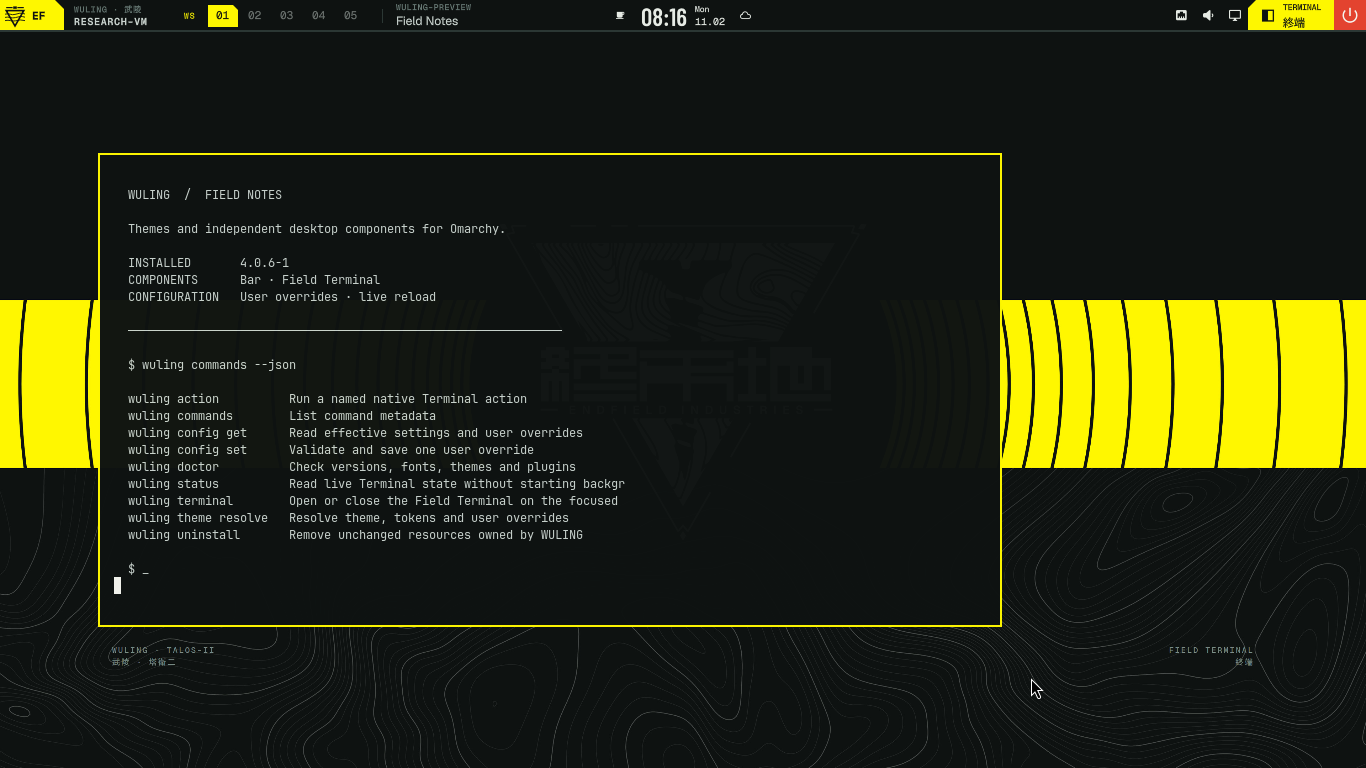
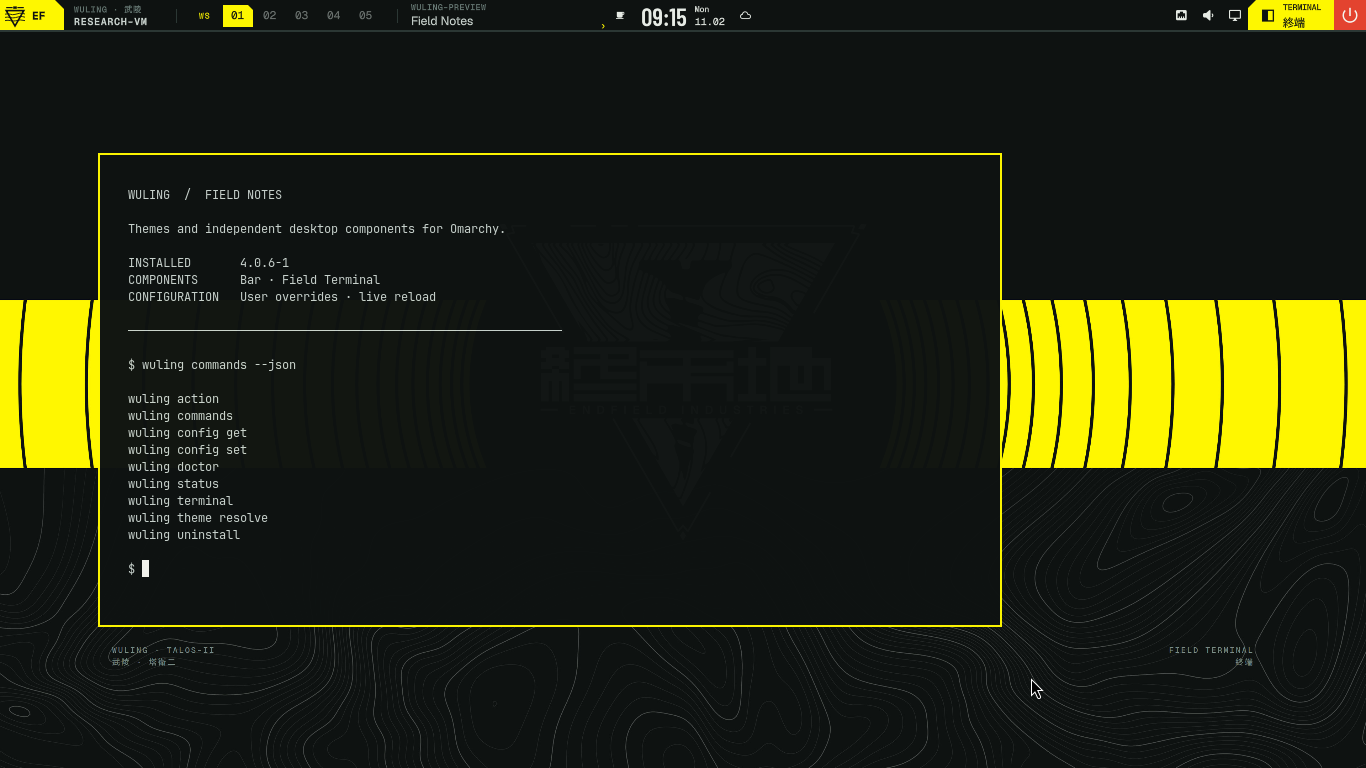
Align Terminal with approved layout and correct capture evidence

diff --git a/plugins/terminal/Terminal.qml b/plugins/terminal/Terminal.qml
@@ -33,6 +33,15 @@ Ui.Panel {
         if (actionProcess.running || !actionQueue.length) return;
         actionProcess.command = actionQueue[0]; actionQueue = actionQueue.slice(1); actionProcess.running = true;
     }
+    function tileValue(tile) {
+        const word = tile.active ? "On" : "Off";
+        if (tile.id === "power") {
+            const value = ({balanced:"Balanced", performance:"Performance", "power-saver":"Saver"})[tile.state] || tile.state;
+            return Kit.Runtime.language === "en" ? value : Kit.Runtime.tr(tile.state) + " " + value;
+        }
+        if (Kit.Runtime.language === "en") return word;
+        return ["dnd", "night"].indexOf(tile.id) >= 0 ? Kit.Runtime.tr(tile.id) + " " + word : word + " " + Kit.Runtime.tr(tile.active ? "on" : "off");
+    }
     function foot(action) { close(); act(action); }
     onOpenedChanged: {
         if (!opened) state = ({});
@@ -122,7 +131,9 @@ Ui.Panel {
                 boundsBehavior: Flickable.StopAtBounds
                 Column {
                     id: contents; width: scroll.width
-                    component Part: Column {
+                    component Part: Item {
+                        default property alias contentData: sectionContent.data
+                        implicitHeight: layout.height + Kit.Runtime.px(10) + 1
                         id: part
                         property string sectionKey: ""
                         property bool revealed: false
@@ -138,30 +149,36 @@ Ui.Panel {
                         Connections { target: terminal; function onOpenedChanged() { part.reveal(); } }
                         Timer { id: entry; interval: Kit.Runtime.reduced ? 0 : 150 + Math.min(12, Math.max(0, terminal.shown.indexOf(part.sectionKey))) * (Kit.Runtime.hud ? 60 : 20); onTriggered: part.revealed = true }
                         Behavior on opacity { NumberAnimation { duration: 90 } }
-                        Item {
-                            width: part.width; height: 0; z: 1
-                            Rectangle { visible: part.sectionKey !== "comms"; width: parent.width; height: 1; y: part.height - 1; color: Kit.Runtime.c("line") }
-                            Rectangle {
-                                visible: Kit.Runtime.hud && !Kit.Runtime.reduced && sweep.running
-                                width: parent.width; height: 1; color: Kit.Runtime.c("accent-ink")
-                                property real progress: 0
-                                y: progress * part.height
-                                NumberAnimation on progress { id: sweep; from: 0; to: 1; duration: 160; running: part.revealed && terminal.opened }
-                            }
+                        property Column layout: Column {
+                            parent: part; width: part.width
+                            Kit.Section { width: parent.width; number: terminal.number(part.sectionKey); title: Kit.Runtime.label(part.sectionKey); detail: part.sectionKey === "clock" ? Quickshell.env("USER") : "" }
+                            Column { id: sectionContent; width: parent.width; topPadding: Kit.Runtime.px(8) }
                         }
-                        Kit.Section { width: parent.width; number: terminal.number(parent.sectionKey); title: Kit.Runtime.label(parent.sectionKey) }
+                        property Rectangle divider: Rectangle {
+                            parent: part; anchors.bottom: parent.bottom; width: parent.width; height: 1
+                            visible: terminal.shown[terminal.shown.length - 1] !== part.sectionKey
+                            color: Kit.Runtime.c("line")
+                        }
+                        property Rectangle scan: Rectangle {
+                            parent: part
+                            visible: Kit.Runtime.hud && !Kit.Runtime.reduced && sweep.running
+                            width: parent.width; height: 1; color: Kit.Runtime.c("accent-ink")
+                            property real progress: 0
+                            y: progress * part.height
+                            NumberAnimation on progress { id: sweep; from: 0; to: 1; duration: 160; running: part.revealed && terminal.opened }
+                        }
                     }
                     Part {
                         sectionKey: "clock"
                         Item {
-                            width: parent.width; height: Kit.Runtime.g("terminal_clock_size") + Kit.Runtime.px(8)
-                            Kit.Label { id: hours; x: Kit.Runtime.px(14); anchors.bottom: parent.bottom; anchors.bottomMargin: Kit.Runtime.px(6); text: terminal.state.clock ? terminal.state.clock.time.slice(0, 5) : "—:—"; font.family: Kit.Runtime.display; font.weight: Font.DemiBold; font.pixelSize: Kit.Runtime.g("terminal_clock_size"); color: Kit.Runtime.c("paper-1") }
-                            Kit.Label { x: hours.x + hours.width + Kit.Runtime.px(5); anchors.bottom: hours.bottom; anchors.bottomMargin: Kit.Runtime.px(4); text: terminal.state.clock ? terminal.state.clock.time.slice(5) : ""; font.family: Kit.Runtime.display; font.pixelSize: Kit.Runtime.px(18); color: Kit.Runtime.c("accent-ink") }
+                            width: parent.width; height: Kit.Runtime.g("terminal_clock_size") * .9 + Kit.Runtime.px(2)
+                            Kit.Label { id: hours; x: Kit.Runtime.px(14); anchors.bottom: parent.bottom; anchors.bottomMargin: Kit.Runtime.px(2); height: Kit.Runtime.g("terminal_clock_size") * .9; text: terminal.state.clock ? terminal.state.clock.time.slice(0, 5) : "—:—"; font.family: Kit.Runtime.display; font.weight: Font.DemiBold; font.pixelSize: Kit.Runtime.g("terminal_clock_size"); color: Kit.Runtime.c("paper-1") }
+                            Kit.Label { x: hours.x + hours.width + Kit.Runtime.px(5); anchors.bottom: hours.bottom; anchors.bottomMargin: Kit.Runtime.px(4); text: terminal.state.clock ? terminal.state.clock.time.slice(5) : ""; font.family: Kit.Runtime.display; font.pixelSize: Kit.Runtime.px(18); font.weight: Font.DemiBold; height: Kit.Runtime.px(18); color: Kit.Runtime.c("accent-ink") }
                             Column {
-                                anchors.right: parent.right; anchors.rightMargin: Kit.Runtime.px(14); anchors.bottom: parent.bottom; anchors.bottomMargin: Kit.Runtime.px(10); spacing: Kit.Runtime.px(4)
-                                Kit.Label { anchors.right: parent.right; text: terminal.state.clock ? terminal.state.clock.date : ""; font.pixelSize: Kit.Runtime.px(12) }
-                                Kit.Label { anchors.right: parent.right; text: terminal.state.clock ? terminal.state.clock.zone : ""; font.pixelSize: Kit.Runtime.px(9); color: Kit.Runtime.c("mist-4") }
-                                Kit.Label { anchors.right: parent.right; text: { const n = terminal.state.clock ? terminal.state.clock.uptime_seconds : 0; return Kit.Runtime.tr("uptime") + " " + Math.floor(n / 3600) + "h " + Math.floor(n / 60) % 60 + "m"; } font.pixelSize: Kit.Runtime.px(8); color: Kit.Runtime.c("mist-5") }
+                                anchors.right: parent.right; anchors.rightMargin: Kit.Runtime.px(14); anchors.bottom: parent.bottom; anchors.bottomMargin: Kit.Runtime.px(2); spacing: Kit.Runtime.px(4)
+                                Kit.Micro { anchors.right: parent.right; text: { const c = terminal.state.clock; if (!c) return ""; const day = ["MON", "TUE", "WED", "THU", "FRI", "SAT", "SUN"][c.weekday - 1]; return c.date.slice(0, 4) + " · " + day + (Kit.Runtime.language === "en" ? "" : " " + Kit.Runtime.tr("weekday-" + c.weekday)); } }
+                                Kit.Label { anchors.right: parent.right; height: Kit.Runtime.px(14.4); text: terminal.state.clock ? terminal.state.clock.date.slice(5).replace("-", ".") + " · " + terminal.state.clock.zone : ""; font.pixelSize: Kit.Runtime.px(12); font.weight: Font.DemiBold; font.letterSpacing: Kit.Runtime.px(.72); color: Kit.Runtime.c("paper-1") }
+                                Kit.Micro { anchors.right: parent.right; text: { const n = terminal.state.clock ? terminal.state.clock.uptime_seconds : 0; return "UPTIME " + Math.floor(n / 3600) + "H " + Math.floor(n / 60) % 60 + "M"; } }
                             }
                         }
                     }
@@ -179,18 +196,16 @@ Ui.Panel {
                                     onClicked: terminal.act(modelData.action)
                                     onRightClicked: terminal.act("panel", modelData.id)
                                     Kit.Icon { x: Kit.Runtime.px(8); y: Kit.Runtime.px(7); name: ({wifi:"wifi",bluetooth:"bluetooth",tailscale:"hub",dnd:"do_not_disturb_on",night:"bedtime",power:"speed"})[parent.modelData.id]; color: parent.foreground; font.pixelSize: Kit.Runtime.px(15) }
-                                    Kit.Label { anchors.right: parent.right; anchors.rightMargin: Kit.Runtime.px(7); y: Kit.Runtime.px(7); text: Kit.Runtime.tr(parent.modelData.id); color: parent.foreground; font.pixelSize: Kit.Runtime.px(8) }
-                                    Kit.Label { x: Kit.Runtime.px(8); y: Kit.Runtime.px(31); width: parent.width - Kit.Runtime.px(16); text: parent.modelData.id === "power" ? Kit.Runtime.tr(parent.modelData.state) : Kit.Runtime.tr(parent.modelData.active ? "on" : "off"); color: parent.foreground; font.family: Kit.Runtime.sans }
+                                    Kit.Micro { anchors.right: parent.right; anchors.rightMargin: Kit.Runtime.px(8); y: Kit.Runtime.px(10); text: ({wifi:"WI-FI", bluetooth:"BT", tailscale:"TAILNET", dnd:"DND", night:"NIGHT", power:"POWER"})[parent.modelData.id]; color: parent.foreground; pixels: 7.5 }
+                                    Kit.Label { x: Kit.Runtime.px(8); y: Kit.Runtime.px(31); width: parent.width - Kit.Runtime.px(16); text: terminal.tileValue(parent.modelData); color: parent.foreground; font.family: Kit.Runtime.sans }
                                 }
                             }
                         }
-                        Item { width: 1; height: Kit.Runtime.px(10) }
                     }
                     Part {
                         sectionKey: "levels"
                         Kit.Level { x: Kit.Runtime.px(14); width: parent.width - Kit.Runtime.px(28); visible: !!terminal.state.levels && !!terminal.state.levels.volume; name: Kit.Runtime.tr("volume"); icon: terminal.state.levels && terminal.state.levels.volume && terminal.state.levels.volume.muted ? "volume_off" : "volume_up"; value: terminal.state.levels && terminal.state.levels.volume ? terminal.state.levels.volume.percent : 0; onAdjusted: percent => terminal.act("volume", Math.round(percent)) }
                         Kit.Level { x: Kit.Runtime.px(14); width: parent.width - Kit.Runtime.px(28); visible: !!terminal.state.levels && terminal.state.levels.brightness !== null; name: Kit.Runtime.tr("brightness"); icon: "brightness_6"; fill: Kit.Runtime.c("paper-2"); value: terminal.state.levels && terminal.state.levels.brightness !== null ? terminal.state.levels.brightness : 0; onAdjusted: percent => terminal.act("brightness", Math.round(percent)) }
-                        Item { width: 1; height: Kit.Runtime.px(8) }
                     }
                     Part {
                         sectionKey: "signal"
@@ -242,7 +257,6 @@ Ui.Panel {
                             }
                         }
                         Kit.Button { x: Kit.Runtime.px(14); width: parent.width - Kit.Runtime.px(28); height: Kit.Runtime.px(26); text: Kit.Runtime.tr("ask-agent"); icon: "smart_toy"; onClicked: terminal.act("agent") }
-                        Item { width: 1; height: Kit.Runtime.px(8) }
                     }
                     Part {
                         sectionKey: "telemetry"
@@ -253,13 +267,16 @@ Ui.Panel {
                                 Column {
                                     required property string modelData
                                     width: (contents.width - Kit.Runtime.px(48)) / 3; spacing: Kit.Runtime.px(4)
-                                    Kit.Label { text: Kit.Runtime.tr(modelData).toUpperCase(); font.pixelSize: Kit.Runtime.px(8); color: Kit.Runtime.c("mist-5") }
-                                    Kit.Label { font.family: Kit.Runtime.display; font.pixelSize: Kit.Runtime.px(16); font.weight: Font.DemiBold; text: { const t = terminal.state.telemetry; if (!t) return "—"; const value = modelData === "cpu" ? t.cpu_percent : modelData === "memory" ? t.memory_used / 1073741824 : t.temperature_c; return value === null ? "—" : value.toFixed(modelData === "memory" ? 1 : 0) + (modelData === "cpu" ? "%" : modelData === "memory" ? " / " + (t.memory_total / 1073741824).toFixed(1) + "G" : "°"); } }
-                                    Kit.Spark { width: parent.width; height: Kit.Runtime.px(16); samples: terminal.state.telemetry ? terminal.state.telemetry.history[modelData] : []; ink: Kit.Runtime.c(modelData === "cpu" ? "accent-ink" : modelData === "memory" ? "paper-2" : "jade") }
+                                    Kit.Micro { text: ({cpu:"CPU", memory:"MEM", temperature:"TEMP"})[modelData] + (Kit.Runtime.language === "en" ? "" : " " + Kit.Runtime.tr(modelData)) }
+                                    Row {
+                                        height: Kit.Runtime.px(16); spacing: Kit.Runtime.px(3)
+                                        Kit.Label { height: parent.height; font.family: Kit.Runtime.display; font.pixelSize: Kit.Runtime.px(16); font.weight: Font.DemiBold; color: Kit.Runtime.c("paper-1"); text: { const t = terminal.state.telemetry; if (!t) return "—"; const value = modelData === "cpu" ? t.cpu_percent : modelData === "memory" ? t.memory_used / 1073741824 : t.temperature_c; return value === null ? "—" : value.toFixed(modelData === "memory" ? 1 : 0) + (modelData === "cpu" ? "%" : modelData === "memory" ? "" : "°"); } }
+                                        Kit.Label { visible: modelData === "memory" && !!terminal.state.telemetry; anchors.bottom: parent.bottom; height: Kit.Runtime.px(9); font.pixelSize: Kit.Runtime.px(9); font.weight: Font.Medium; color: Kit.Runtime.c("mist-4"); text: terminal.state.telemetry ? "/ " + (terminal.state.telemetry.memory_total / 1073741824).toFixed(1) + "G" : "" }
+                                    }
+                                    Kit.Spark { width: Math.min(parent.width, Kit.Runtime.px(96)); height: Kit.Runtime.px(16); samples: terminal.state.telemetry ? terminal.state.telemetry.history[modelData] : []; ink: Kit.Runtime.c(modelData === "cpu" ? "accent-ink" : modelData === "memory" ? "paper-2" : "jade") }
                                 }
                             }
                         }
-                        Item { width: 1; height: Kit.Runtime.px(10) }
                     }
                     Part {
                         sectionKey: "comms"
@@ -271,7 +288,7 @@ Ui.Panel {
             Row {
                 id: foot; anchors.bottom: parent.bottom; anchors.bottomMargin: Kit.Runtime.px(12); x: Kit.Runtime.px(22); spacing: Kit.Runtime.px(6)
                 Repeater {
-                    model: [{key:"lock",icon:"lock",action:"lock"},{key:"sleep",icon:"bedtime",action:"sleep"},{key:"exit",icon:"logout",action:"power-menu"},{key:"reboot",icon:"restart_alt",action:"power-menu"},{key:"off",icon:"power_settings_new",action:"power-menu"}]
+                    model: [{key:"lock",icon:"lock",action:"lock"},{key:"sleep",icon:"bedtime",action:"sleep"},{key:"exit",icon:"logout",action:"power-menu"},{key:"reboot",icon:"restart_alt",action:"power-menu"},{key:"shutdown",icon:"power_settings_new",action:"power-menu"}]
                     Kit.Button {
                         required property var modelData
                         width: (body.width - Kit.Runtime.px(60)) / 5; height: Kit.Runtime.px(40)
@@ -279,7 +296,7 @@ Ui.Panel {
                         Accessible.name: Kit.Runtime.tr(modelData.key)
                         onClicked: terminal.foot(modelData.action)
                         Kit.Icon { anchors.horizontalCenter: parent.horizontalCenter; y: Kit.Runtime.px(6); name: parent.modelData.icon; font.pixelSize: Kit.Runtime.px(15); color: parent.foreground }
-                        Kit.Label { anchors.horizontalCenter: parent.horizontalCenter; y: Kit.Runtime.px(25); text: Kit.Runtime.tr(parent.modelData.key).toUpperCase(); font.pixelSize: Kit.Runtime.px(8); color: parent.foreground }
+                        Kit.Micro { anchors.horizontalCenter: parent.horizontalCenter; y: Kit.Runtime.px(25); text: parent.modelData.key === "shutdown" ? "OFF" : parent.modelData.key.toUpperCase(); pixels: 7.5; color: parent.foreground }
                     }
                 }
             }

diff --git a/kit/Section.qml b/kit/Section.qml
@@ -4,10 +4,10 @@ Item {
     property string number: ""
     property string title: ""
     property string detail: ""
-    implicitHeight: Runtime.px(27)
+    implicitHeight: Runtime.px(Runtime.hud ? 23 : 19)
     Rectangle { visible: Runtime.hud; x: Runtime.px(14); y: Runtime.px(8); width: Runtime.px(23); height: Runtime.px(15); color: Runtime.c("fill") }
-    Label { x: Runtime.px(Runtime.hud ? 18 : 14); y: Runtime.px(9); text: section.number; color: Runtime.c(Runtime.hud ? "on-accent" : "accent-ink"); font.pixelSize: Runtime.px(9); font.weight: Font.DemiBold }
-    Label { id: title; x: Runtime.px(Runtime.hud ? 45 : 36); y: Runtime.px(9); text: section.title.toUpperCase(); font.pixelSize: Runtime.px(9); font.letterSpacing: Runtime.px(1) }
-    Rectangle { x: title.x + title.width + Runtime.px(8); y: Runtime.px(15); width: Math.max(0, parent.width - x - detail.width - Runtime.px(22)); height: 1; color: Runtime.c("line-soft") }
-    Label { id: detail; anchors.right: parent.right; anchors.rightMargin: Runtime.px(14); y: Runtime.px(9); text: section.detail; color: Runtime.c("mist-5"); font.pixelSize: Runtime.px(8) }
+    Label { x: Runtime.px(Runtime.hud ? 18 : 14); y: Runtime.px(Runtime.hud ? 11 : 10); height: Runtime.px(9); text: section.number; color: Runtime.c(Runtime.hud ? "on-accent" : "accent-ink"); font.pixelSize: Runtime.px(9); font.weight: Font.DemiBold }
+    Label { id: title; x: Runtime.px(Runtime.hud ? 45 : 36); y: Runtime.px(Runtime.hud ? 11 : 10); height: Runtime.px(9); text: section.title.toUpperCase(); font.pixelSize: Runtime.px(9); font.weight: Font.Medium; font.letterSpacing: Runtime.px(1.26) }
+    Rectangle { x: title.x + title.width + Runtime.px(8); y: title.y + title.height / 2; width: Math.max(0, parent.width - x - detail.width - Runtime.px(22)); height: 1; color: Runtime.c("line-soft") }
+    Label { id: detail; anchors.right: parent.right; anchors.rightMargin: Runtime.px(14); y: title.y; height: title.height; text: section.detail.toUpperCase(); color: Runtime.c("mist-5"); font.pixelSize: Runtime.px(8); font.weight: Font.Medium; font.letterSpacing: Runtime.px(1.12) }
 }

diff --git a/plugins/bar/kit/Section.qml b/plugins/bar/kit/Section.qml
@@ -4,10 +4,10 @@ Item {
     property string number: ""
     property string title: ""
     property string detail: ""
-    implicitHeight: Runtime.px(27)
+    implicitHeight: Runtime.px(Runtime.hud ? 23 : 19)
     Rectangle { visible: Runtime.hud; x: Runtime.px(14); y: Runtime.px(8); width: Runtime.px(23); height: Runtime.px(15); color: Runtime.c("fill") }
-    Label { x: Runtime.px(Runtime.hud ? 18 : 14); y: Runtime.px(9); text: section.number; color: Runtime.c(Runtime.hud ? "on-accent" : "accent-ink"); font.pixelSize: Runtime.px(9); font.weight: Font.DemiBold }
-    Label { id: title; x: Runtime.px(Runtime.hud ? 45 : 36); y: Runtime.px(9); text: section.title.toUpperCase(); font.pixelSize: Runtime.px(9); font.letterSpacing: Runtime.px(1) }
-    Rectangle { x: title.x + title.width + Runtime.px(8); y: Runtime.px(15); width: Math.max(0, parent.width - x - detail.width - Runtime.px(22)); height: 1; color: Runtime.c("line-soft") }
-    Label { id: detail; anchors.right: parent.right; anchors.rightMargin: Runtime.px(14); y: Runtime.px(9); text: section.detail; color: Runtime.c("mist-5"); font.pixelSize: Runtime.px(8) }
+    Label { x: Runtime.px(Runtime.hud ? 18 : 14); y: Runtime.px(Runtime.hud ? 11 : 10); height: Runtime.px(9); text: section.number; color: Runtime.c(Runtime.hud ? "on-accent" : "accent-ink"); font.pixelSize: Runtime.px(9); font.weight: Font.DemiBold }
+    Label { id: title; x: Runtime.px(Runtime.hud ? 45 : 36); y: Runtime.px(Runtime.hud ? 11 : 10); height: Runtime.px(9); text: section.title.toUpperCase(); font.pixelSize: Runtime.px(9); font.weight: Font.Medium; font.letterSpacing: Runtime.px(1.26) }
+    Rectangle { x: title.x + title.width + Runtime.px(8); y: title.y + title.height / 2; width: Math.max(0, parent.width - x - detail.width - Runtime.px(22)); height: 1; color: Runtime.c("line-soft") }
+    Label { id: detail; anchors.right: parent.right; anchors.rightMargin: Runtime.px(14); y: title.y; height: title.height; text: section.detail.toUpperCase(); color: Runtime.c("mist-5"); font.pixelSize: Runtime.px(8); font.weight: Font.Medium; font.letterSpacing: Runtime.px(1.12) }
 }

diff --git a/plugins/terminal/kit/Section.qml b/plugins/terminal/kit/Section.qml
@@ -4,10 +4,10 @@ Item {
     property string number: ""
     property string title: ""
     property string detail: ""
-    implicitHeight: Runtime.px(27)
+    implicitHeight: Runtime.px(Runtime.hud ? 23 : 19)
     Rectangle { visible: Runtime.hud; x: Runtime.px(14); y: Runtime.px(8); width: Runtime.px(23); height: Runtime.px(15); color: Runtime.c("fill") }
-    Label { x: Runtime.px(Runtime.hud ? 18 : 14); y: Runtime.px(9); text: section.number; color: Runtime.c(Runtime.hud ? "on-accent" : "accent-ink"); font.pixelSize: Runtime.px(9); font.weight: Font.DemiBold }
-    Label { id: title; x: Runtime.px(Runtime.hud ? 45 : 36); y: Runtime.px(9); text: section.title.toUpperCase(); font.pixelSize: Runtime.px(9); font.letterSpacing: Runtime.px(1) }
-    Rectangle { x: title.x + title.width + Runtime.px(8); y: Runtime.px(15); width: Math.max(0, parent.width - x - detail.width - Runtime.px(22)); height: 1; color: Runtime.c("line-soft") }
-    Label { id: detail; anchors.right: parent.right; anchors.rightMargin: Runtime.px(14); y: Runtime.px(9); text: section.detail; color: Runtime.c("mist-5"); font.pixelSize: Runtime.px(8) }
+    Label { x: Runtime.px(Runtime.hud ? 18 : 14); y: Runtime.px(Runtime.hud ? 11 : 10); height: Runtime.px(9); text: section.number; color: Runtime.c(Runtime.hud ? "on-accent" : "accent-ink"); font.pixelSize: Runtime.px(9); font.weight: Font.DemiBold }
+    Label { id: title; x: Runtime.px(Runtime.hud ? 45 : 36); y: Runtime.px(Runtime.hud ? 11 : 10); height: Runtime.px(9); text: section.title.toUpperCase(); font.pixelSize: Runtime.px(9); font.weight: Font.Medium; font.letterSpacing: Runtime.px(1.26) }
+    Rectangle { x: title.x + title.width + Runtime.px(8); y: title.y + title.height / 2; width: Math.max(0, parent.width - x - detail.width - Runtime.px(22)); height: 1; color: Runtime.c("line-soft") }
+    Label { id: detail; anchors.right: parent.right; anchors.rightMargin: Runtime.px(14); y: title.y; height: title.height; text: section.detail.toUpperCase(); color: Runtime.c("mist-5"); font.pixelSize: Runtime.px(8); font.weight: Font.Medium; font.letterSpacing: Runtime.px(1.12) }
 }

diff --git a/plugins/bar/Identity.qml b/plugins/bar/Identity.qml
@@ -7,11 +7,12 @@ Item {
     property string moduleName: "wuling.identity"
     readonly property var window: QsWindow.window
     visible: !!bar && !bar.vertical && !!window && window.screen.width >= Kit.Runtime.px(1280)
-    implicitWidth: visible ? Kit.Runtime.px(110) : 0
+    implicitWidth: visible ? Kit.Runtime.px(125) : 0
     implicitHeight: bar ? bar.barSize : Kit.Runtime.px(30)
+    Rectangle { anchors.right: parent.right; anchors.rightMargin: Kit.Runtime.px(12); anchors.verticalCenter: parent.verticalCenter; width: 1; height: Kit.Runtime.px(14); color: Kit.Runtime.c("line") }
     Column {
         x: Kit.Runtime.px(10); anchors.verticalCenter: parent.verticalCenter
         Kit.Label { visible: Kit.Runtime.setting("labels"); text: "WULING · 武陵"; font.pixelSize: Kit.Runtime.px(8); color: Kit.Runtime.c("mist-5"); font.letterSpacing: Kit.Runtime.px(.8) }
-        Kit.Label { width: Kit.Runtime.px(95); text: parent.parent.bar ? parent.parent.bar.hostname : ""; font.pixelSize: Kit.Runtime.px(10); font.weight: Font.DemiBold; font.letterSpacing: Kit.Runtime.px(.7) }
+        Kit.Label { width: Kit.Runtime.px(90); text: parent.parent.bar ? parent.parent.bar.hostname : ""; font.pixelSize: Kit.Runtime.px(10); font.weight: Font.DemiBold; font.letterSpacing: Kit.Runtime.px(.7) }
     }
 }

diff --git a/kit/Micro.qml b/kit/Micro.qml
@@ -1,0 +1,9 @@
+import QtQuick
+Label {
+    property real pixels: 8
+    font.pixelSize: Runtime.px(pixels)
+    font.weight: Font.Medium
+    font.letterSpacing: Runtime.px(pixels * .14)
+    height: Runtime.px(pixels)
+    color: Runtime.c("mist-5")
+}

diff --git a/plugins/bar/kit/Micro.qml b/plugins/bar/kit/Micro.qml
@@ -1,0 +1,9 @@
+import QtQuick
+Label {
+    property real pixels: 8
+    font.pixelSize: Runtime.px(pixels)
+    font.weight: Font.Medium
+    font.letterSpacing: Runtime.px(pixels * .14)
+    height: Runtime.px(pixels)
+    color: Runtime.c("mist-5")
+}

diff --git a/plugins/terminal/kit/Micro.qml b/plugins/terminal/kit/Micro.qml
@@ -1,0 +1,9 @@
+import QtQuick
+Label {
+    property real pixels: 8
+    font.pixelSize: Runtime.px(pixels)
+    font.weight: Font.Medium
+    font.letterSpacing: Runtime.px(pixels * .14)
+    height: Runtime.px(pixels)
+    color: Runtime.c("mist-5")
+}

diff --git a/research/phase-c.md b/research/phase-c.md
@@ -94,17 +94,24 @@ unrelated files were left untouched. A new same-login install/remove control
 then returned the full configuration inventory and logical dconf values to
 its own baseline on both versions (`same-login-cleanup-vm{406,450}.log`).
 
-One 4.5 capture after a fresh login and native text-size change to 16 showed
-missing Terminal text, including the large clock and header. This was not
-reproduced by repeating the setting: three later captures across roughly ten
-seconds and a close/reopen showed complete text. Fontconfig selected the
-installed WULING font paths. The final four-edge/fractional-scale captures
-also showed complete content. The cause is not established; do not attribute
-it to Qt, virgl or the product without further evidence. Keep
-`shots/vm450-font-scale-16.png` as the incomplete capture and
-`shots/vm450-scale-reopen.png` plus `scale-observe-450.log` as the later
-controls. The independent verifier should explicitly repeat the cold-login
-text-size change, including on real hardware.
+The original observation after a fresh 4.5 login and native text-size change
+to 16 was missing Terminal text, including the large clock and header. **The
+frame was overwritten; only the contemporaneous observation remains.** The
+previous report incorrectly cited `shots/vm450-font-scale-16.png` as the bad
+frame. That file is complete: its clock reads 08:25:03 and its host mtime is
+00:25:03, matching `font-steady-vm450.log`, not the 00:15 run in
+`font-scale-450.log`. No surviving bad frame has been identified.
+
+The 00:15 candidate already contained the font-backup fix: the retained
+`c-before-hotfix/bin/lib/wuling/lifecycle.py` (00:02:32) uses the dedicated
+`font-backups` directory, and the subsequent install completed at 00:12:28.
+These host times are 2026-11-02 PST. This does not establish a cause for the
+observation. Do not attribute it to Qt, virgl or the product. Three later
+timestamped captures across roughly ten seconds, `shots/vm450-scale-reopen.png`,
+and the final edge/fractional-scale captures show complete text;
+`scale-observe-450.log` records those controls. The independent verifier should
+repeat the cold-login text-size change, including on real hardware. New
+capture helpers use unique run IDs and frame timestamps and refuse overwrite.
 
 ## Design decisions and remaining phases
 

diff --git a/research/phase-c.1.md b/research/phase-c.1.md
@@ -1,0 +1,30 @@
+# Phase C.1 — Terminal alignment and evidence correction
+
+Inbox v412 follow-up to phase C. No notification or OSD behavior is changed.
+
+The Terminal now follows the approved section geometry: full-width separators,
+10 px bottom padding, compact headers and content, three clock detail lines,
+username in the header, heavier seconds, fixed English tile micro labels,
+localised values, mixed-size telemetry readouts, 96×16 sparklines and English
+footer labels with localised accessible names. The final visible section has
+no bottom rule. The bar has the identity/workspace separator. Catalogs distinguish
+shutdown from an off state and use the requested reboot and comms wording.
+
+The [phase C report](phase-c.md) corrects the missing-font claim. The old capture
+was overwritten and the remaining PNG is complete. The earlier candidate
+already included the font backup correction; the visual observation remains
+unattributed. Capture helpers now use a run ID plus frame timestamp and
+exclusive file creation. The verification guide requires immutable filenames.
+
+The four public theme previews were captured again with the real WULING bar,
+a neutral terminal window, complete command names and one real prompt cursor.
+They were visually inspected before refreshing the image manifest.
+
+Validation: `tools/check` passes (40 tests plus generation, metadata, syntax and
+privacy checks). Omarchy 4.0.6 and 4.5.0-rc2 were started from their clean C
+checkpoints. Field and HUD were opened and compared visually on each, at
+1366×768, scale 1, zh-Hant. The final candidate has no WULING QML load or binding
+errors. These are the requested focused checks, not a repeat of C's matrix.
+Raw captures and logs remain outside git in `wd1/`; the C raw evidence remains
+in `wc1/`. The approved `wc1/hotfix` worktree was removed. Hardware and the
+independent cold-login font investigation remain with the verifier.

diff --git a/agents/skills/verification.md b/agents/skills/verification.md
@@ -18,3 +18,8 @@ versions, limits and paths. Do not erase user edits to obtain an empty diff.
 Privacy checking supplements review; it cannot establish that an arbitrary
 image contains no private content. Inspect every new public image and use
 only synthetic account, machine and notification data.
+
+Give every capture an immutable filename containing a unique run ID and frame
+timestamp. Never overwrite an earlier frame during a repeat run. Record the
+capture path with that run's observations; if a frame was lost, say so rather
+than citing a later capture as evidence of the earlier observation.
